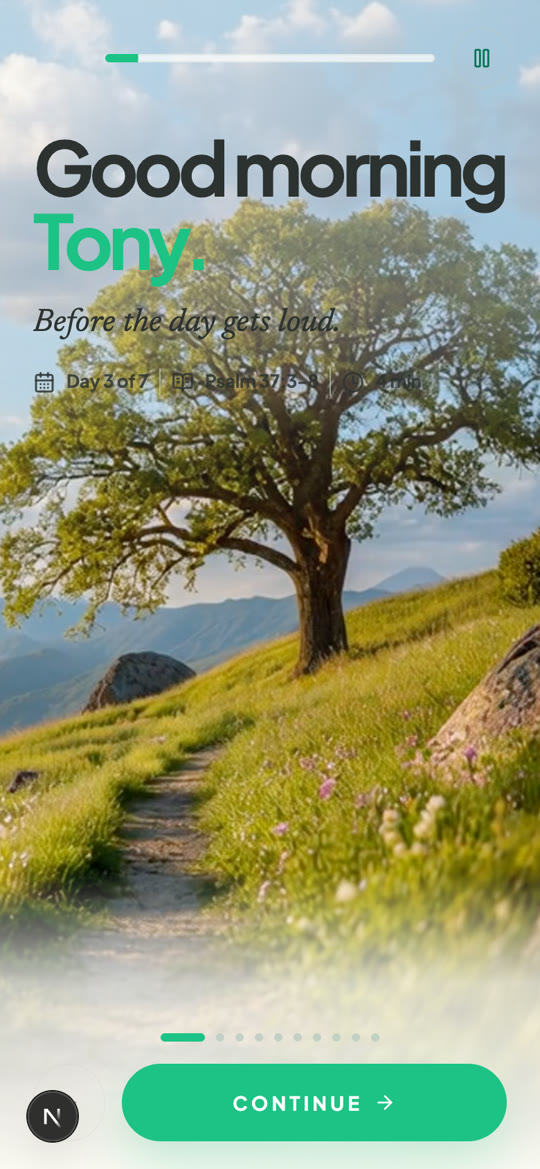
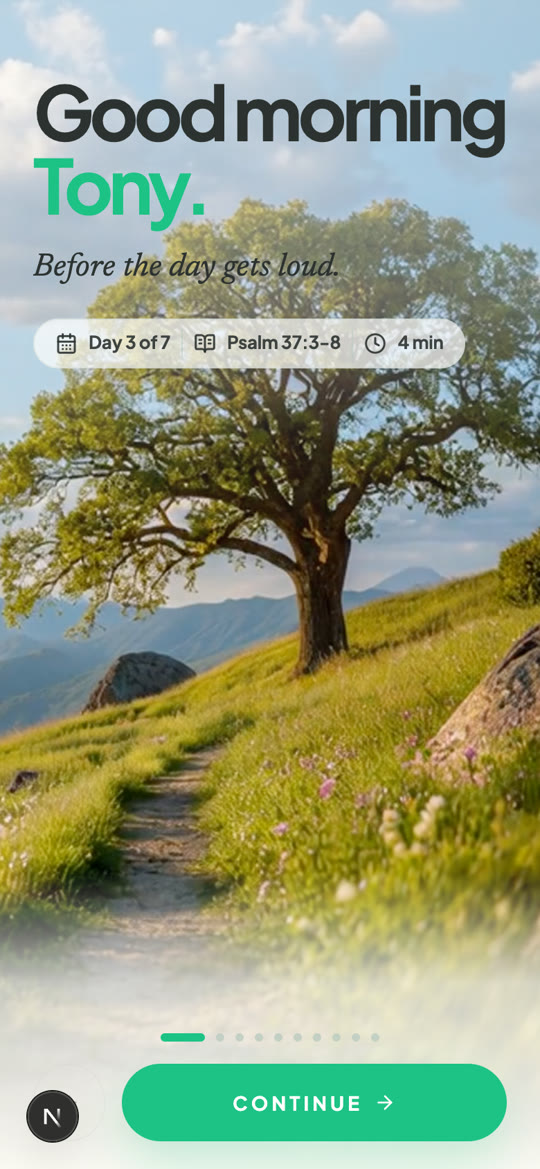
Blog: tighten Same Tree post; refresh greeting screenshot
Drop the crop section and the where-this-might-go section per Tony;
greeting image updated to the chrome-free intro with the meta chip.

Changed region(s): [[0.0296, 0.0, 0.9778, 0.3388], [0.1185, 0.0, 0.1778, 0.0308]]

diff --git a/app/blog/the-same-tree-every-morning/page.tsx b/app/blog/the-same-tree-every-morning/page.tsx
@@ -30,7 +30,7 @@ export default function TheSameTreeEveryMorningPage() {
     <BlogArticleShell
       category="Product"
       date="July 2026"
-      readTime="6 min read"
+      readTime="4 min read"
       title="The Same Tree, Every Morning"
       deck="Why Zoe's mornings now open in one place, and what that place is for."
       path="/blog/the-same-tree-every-morning"
@@ -91,31 +91,6 @@ export default function TheSameTreeEveryMorningPage() {
         So Zoe&apos;s mornings don&apos;t open with a streak counter. They open with a door.
       </p>
 
-      <h2>Behind the scenes: choosing the frame by eye</h2>
-      <p>
-        Okay, now the fun part. The scene was born widescreen, made for a laptop login page. Your phone is
-        the opposite shape. So we had to crop a horizontal world into a vertical window, and the obvious
-        move, just take the middle, fails in the funniest possible way.
-      </p>
-      <p>The tree lives in the right third of the frame. Crop the center and the tree is gone.</p>
-      <div className="my-8 grid grid-cols-2 gap-4">
-        <LightFigure
-          src="/images/blog/same-tree/crop-center.jpg"
-          alt="Center crop of the scene: the path is visible but the tree is cut out of frame"
-          caption="Center crop: a path to nothing"
-        />
-        <LightFigure
-          src="/images/blog/same-tree/crop-kept.jpg"
-          alt="Right-shifted crop of the scene: the path leads up to the tree"
-          caption="The crop we shipped"
-        />
-      </div>
-      <p>
-        A path leading to nothing is kind of a sermon on its own, I guess. Just not the one we wanted to
-        preach. So we slid the window to the right until the path and the tree fit together again, and then
-        we checked every version of the scene by eye before shipping it.
-      </p>
-
       <h2>One place, four lights</h2>
       <p>
         Here&apos;s the scene the way your phone will actually meet it, at four different hours of the same
@@ -159,19 +134,6 @@ export default function TheSameTreeEveryMorningPage() {
         to welcome you, and then to step aside.
       </p>
 
-      <h2>Where this might go</h2>
-      <p>
-        I&apos;m trying to hold this loosely, but a few threads feel worth pulling. What if the same place
-        moved through the church year with you, candlelight in Advent, bare branches in Lent, dawn light
-        through Eastertide? What if your evening reflection returned you to the morning&apos;s hill at dusk,
-        so the day gets bookended in one place? What if each finished morning left you a small keepsake, and
-        a month in you could scroll back through your season with God like a contact sheet?
-      </p>
-      <p>
-        We&apos;ll see. The question I keep asking about every one of these is the same: does it help you
-        pay attention to Jesus, or does it just decorate the app? The tree stays as long as the answer is
-        the first one.
-      </p>
       <p>
         If you&apos;re in the beta, open your morning tomorrow and tell me what it feels like to arrive.
         I read everything you send.

diff --git a/lib/blogPosts.ts b/lib/blogPosts.ts
@@ -6,7 +6,7 @@ export const blogPosts = [
     description:
       "Why Zoe's mornings now open in one place, and what that place is for.",
     date: "July 2026",
-    readTime: "6 min read",
+    readTime: "4 min read",
     category: "Product",
     number: "05",
     heroImage: "/images/blog/same-tree/the-scene-wide.jpg",
